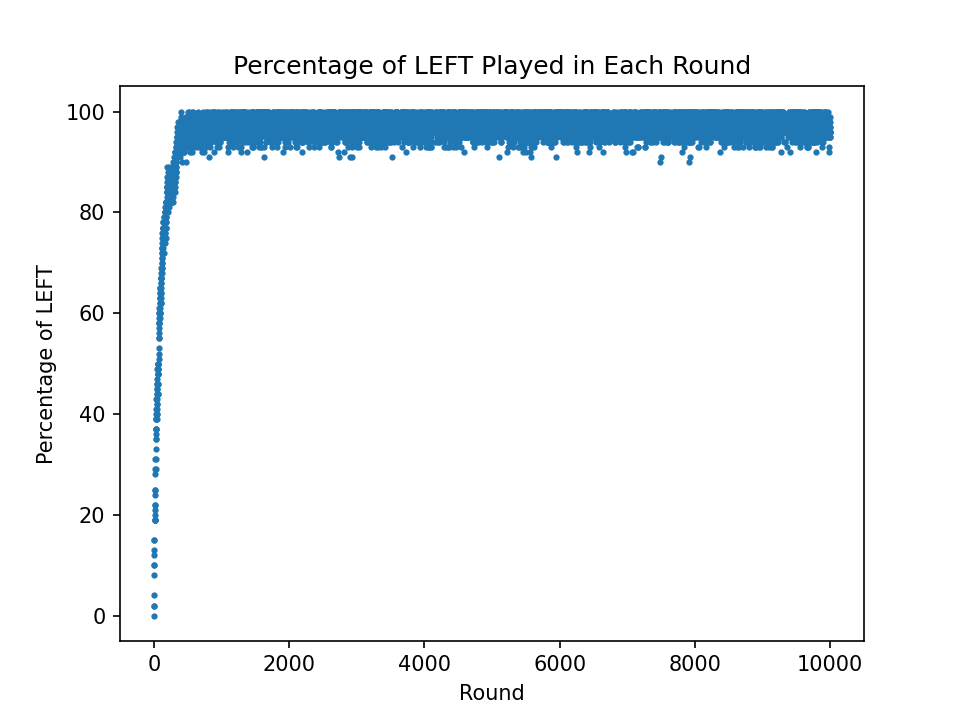
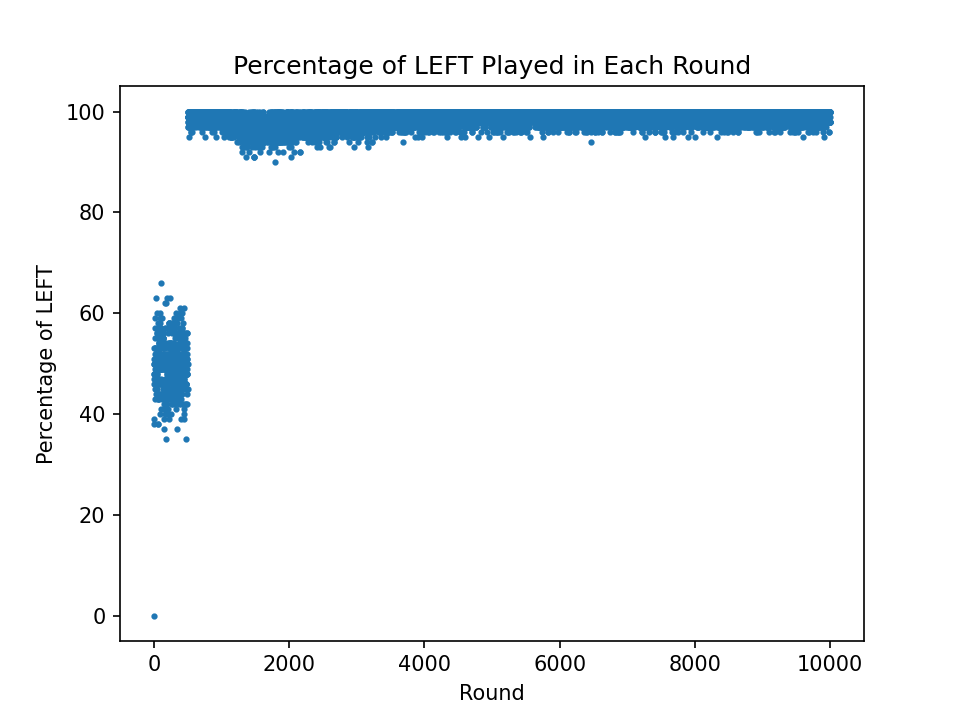
updated PD simulation

Changed region(s): [[0.1562, 0.1528, 0.875, 0.7333], [0.1562, 0.7639, 0.1875, 0.7944]]

diff --git a/Reinforcement_PD.py b/Reinforcement_PD.py
@@ -1,15 +1,6 @@
 import random
 import matplotlib.pyplot as plt
 
-# Define the number of agents
-N_AGENTS = 100
-
-# Number of episodes
-N_EPISODES = 10000
-
-# Define the exploration rate
-EXP_RATE = 0.05
-
 
 class PrisonersDilemma:
     """Class representing the Prisoner's Dilemma game."""
@@ -20,6 +11,7 @@ class PrisonersDilemma:
             num_agents: int = 100,
             num_episodes: int = 10000,
             exploration_rate: float = 0.05,
+            trial_ratio: float = 0.01,
     ):
         """
         Initialize the PrisonersDilemma instance.
@@ -30,9 +22,11 @@ class PrisonersDilemma:
             num_episodes (int): Number of episodes to run the game.
             exploration_rate (float): Exploration rate for agents' action selection.
         """
+        assert num_agents % 2 == 0 # check num_agents is an even number
         self.num_agents = num_agents
         self.num_episodes = num_episodes
         self.exploration_rate = exploration_rate
+        self.trial_ratio = trial_ratio
 
         # Define the rewards for different choices
         s, p, r, t = payoffs
@@ -87,12 +81,14 @@ class PrisonersDilemma:
 
     def run_single_episode(
             self,
+            algo: str,
             episode: int,
     ) -> None:
         """
         Run a single episode of the game.
 
         Args:
+            algo (str): The algorithm used to pick action
             episode (int): Episode number.
         """
         # Track the number of agents choosing LEFT in the current round
@@ -119,10 +115,18 @@ class PrisonersDilemma:
             agent_rewards, opponent_rewards = self.rewards_accumulated[agent_id], self.rewards_accumulated[opponent_id]
 
             # Select actions for the agent and opponent based on accumulated rewards and exploration rate
-            if episode == 0:
-                agent_action, opponent_action = ['RIGHT', 'RIGHT']
+            if episode < round(self.trial_ratio * self.num_episodes):
+                if episode == 0:
+                    agent_action, opponent_action = ['RIGHT', 'RIGHT']
+                else:
+                    agent_action = random.choice(['LEFT', 'RIGHT'])
+                    opponent_action = random.choice(['LEFT', 'RIGHT'])
             else:
-                agent_action, opponent_action = self.q_learning(agent_rewards, opponent_rewards)
+                if hasattr(self, algo):
+                    algorithm = getattr(self, algo)
+                    agent_action, opponent_action = algorithm(agent_rewards, opponent_rewards)
+                else:
+                    raise ValueError("Invalid method.")
             # Get the rewards for the chosen actions
             reward_agent, reward_opponent = self.rewards[(agent_action, opponent_action)]
 
@@ -157,10 +161,10 @@ class PrisonersDilemma:
 
         assert len(already_played) == self.num_agents
 
-    def run_multi_episodes(self) -> None:
+    def run_multi_episodes(self, algo: str) -> None:
         """Run multiple episodes of the game."""
         for episode in range(self.num_episodes):
-            self.run_single_episode(episode)
+            self.run_single_episode(algo, episode)
 
     def plot_all(self) -> None:
         """Plot the percentage of LEFT played in each round and save the plot as 'all.png'."""
@@ -241,8 +245,18 @@ def agents_info(
 
 if __name__ == "__main__":
     PAYOFFS = [0, 1, 3, 5]
+    # Define the number of agents
+    N_AGENTS = 100
+    # Number of episodes
+    N_EPISODES = 10000
+    # Define the exploration rate
+    EXP_RATE = 0.02
+    # Define length of trial period in the beginning
+    TRIAL_RATIO = 0.05
+
     random.seed(42)
-    PD = PrisonersDilemma(PAYOFFS)
-    PD.run_multi_episodes()
+
+    PD = PrisonersDilemma(PAYOFFS, N_AGENTS, N_EPISODES, EXP_RATE, TRIAL_RATIO)
+    PD.run_multi_episodes('q_learning')
     PD.plot_all()
     PD.top_bottom_agents()
